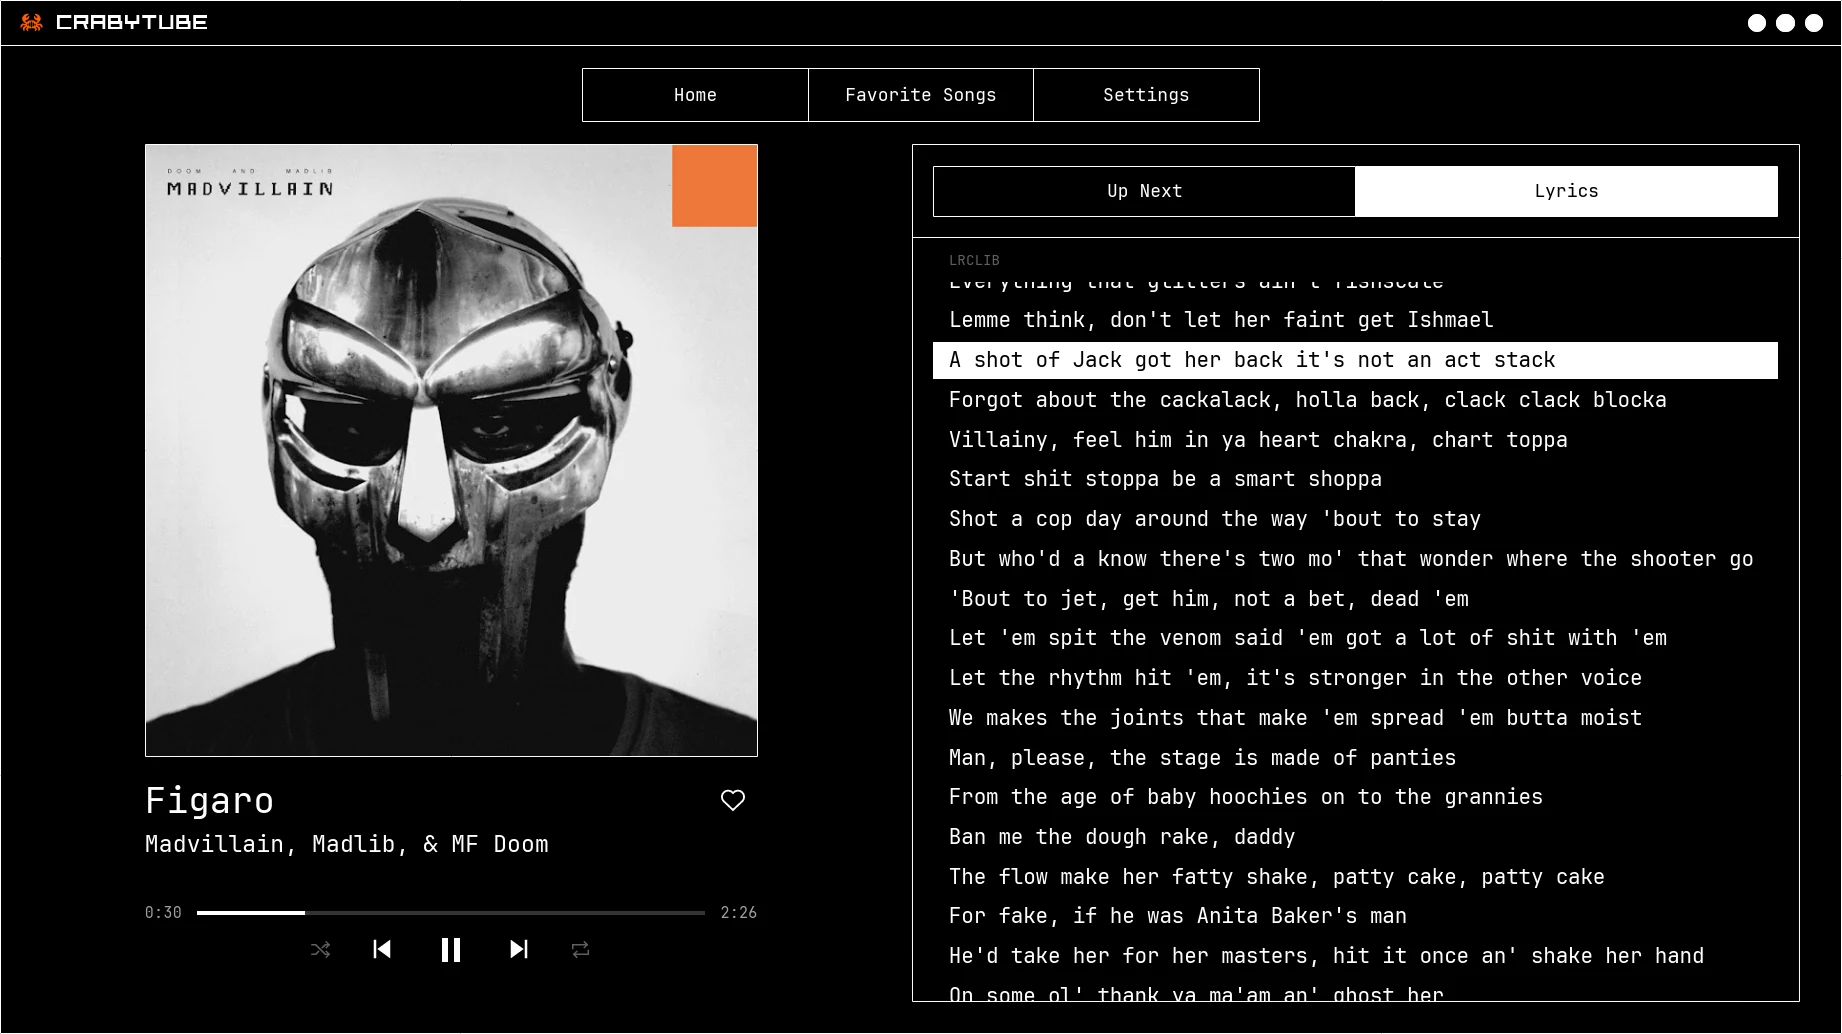
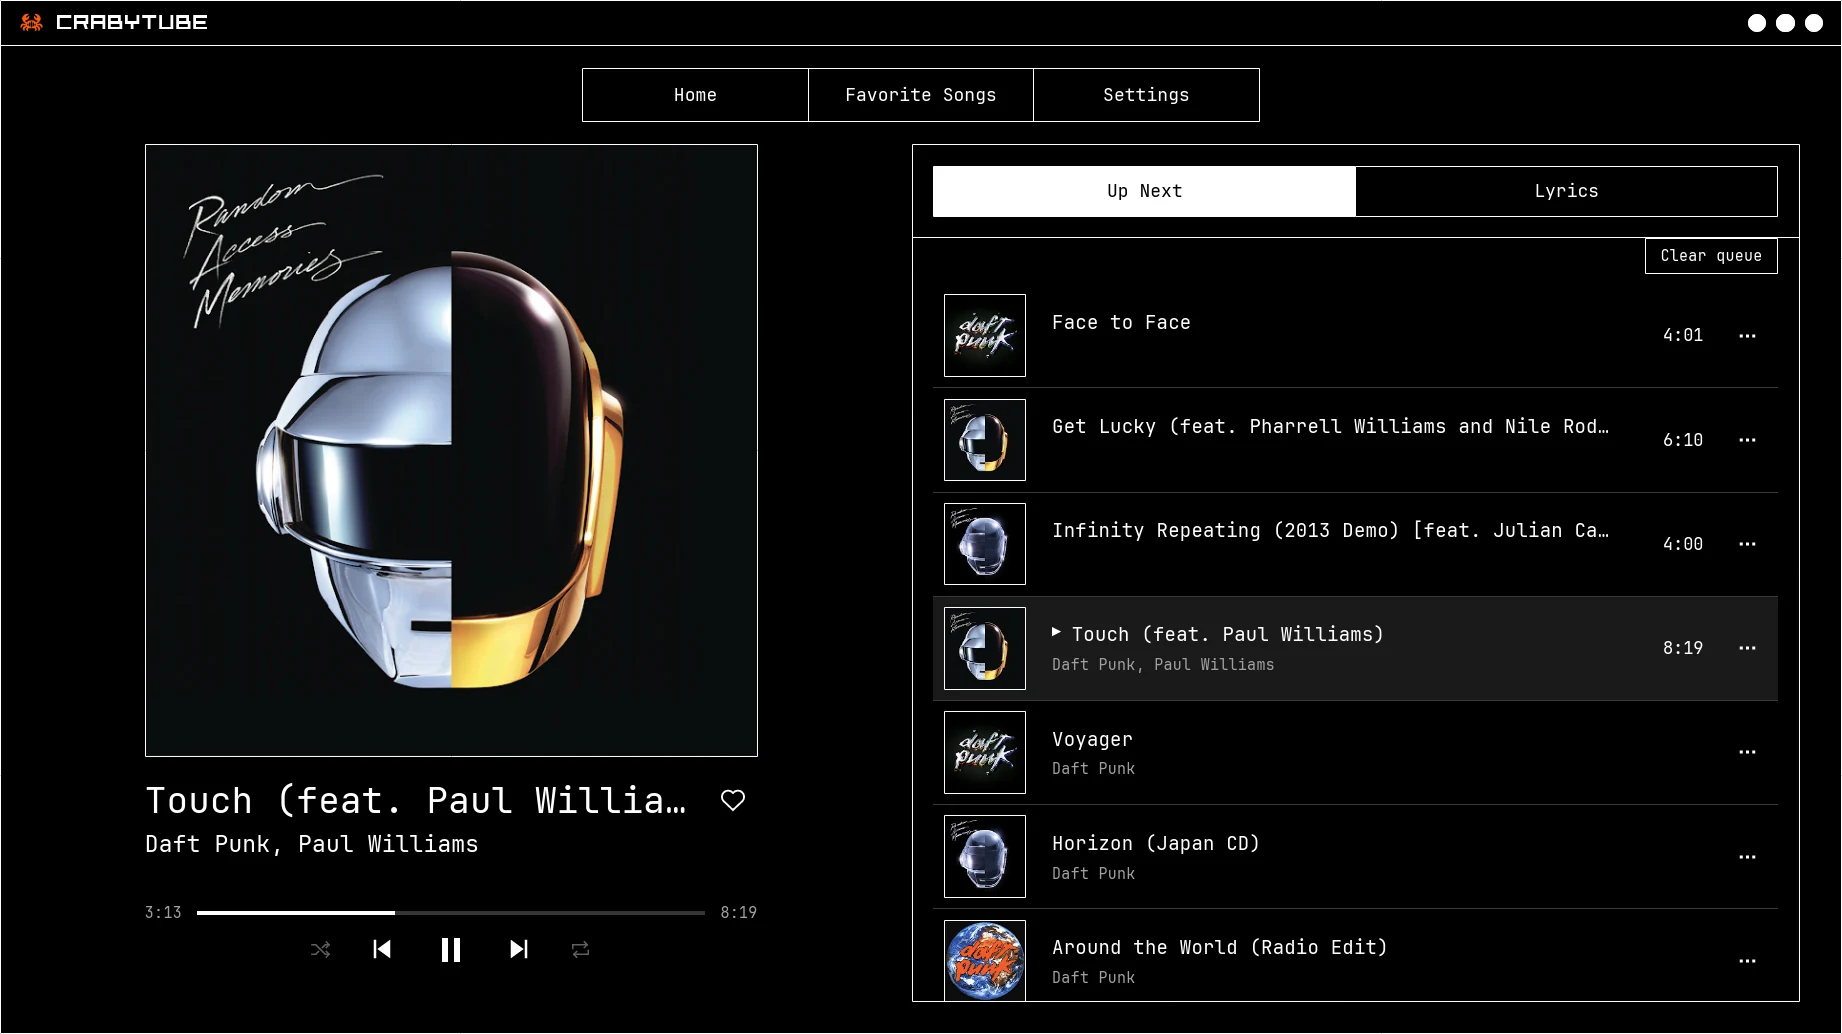
Use a Now Playing screenshot without lyrics

diff --git a/README.md b/README.md
@@ -31,7 +31,7 @@
     <td width="50%"><img src="docs/screenshots/search.webp" alt="Search results"></td>
   </tr>
   <tr>
-    <td width="50%"><img src="docs/screenshots/now-playing.webp" alt="Now Playing with synced lyrics"></td>
+    <td width="50%"><img src="docs/screenshots/now-playing.webp" alt="Now Playing with the Up Next queue"></td>
     <td width="50%"><img src="docs/screenshots/playlist.webp" alt="Playlist"></td>
   </tr>
 </table>
